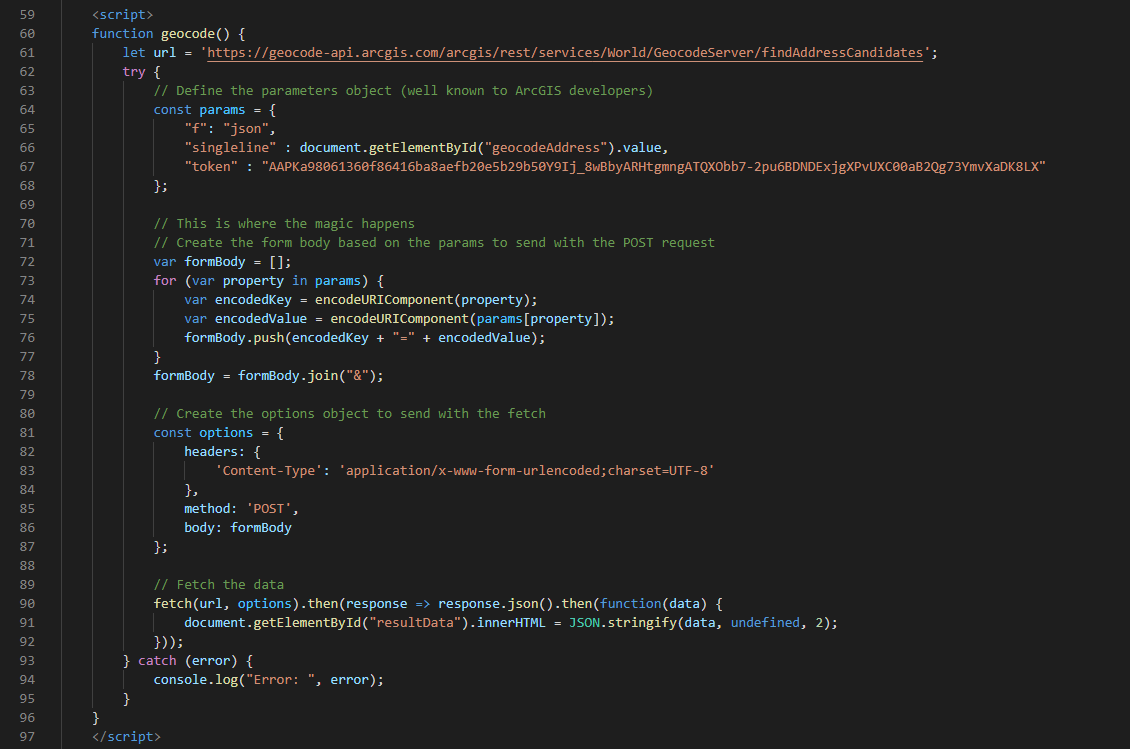
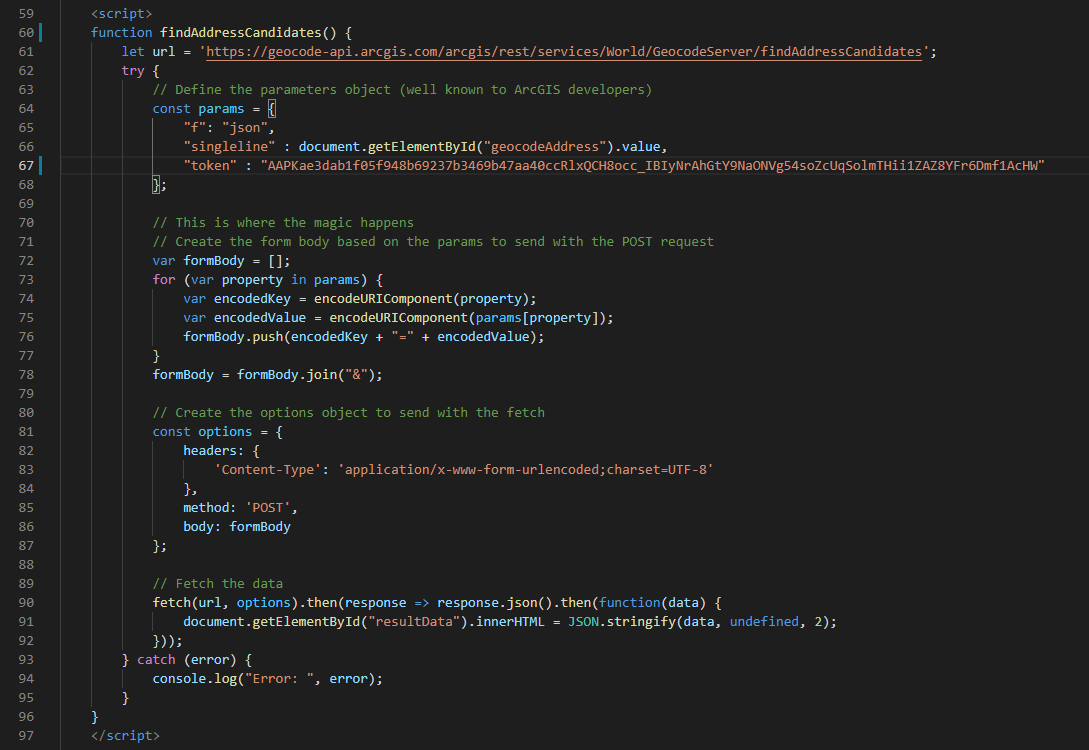
Added JS Fetch REST

diff --git a/JsFetchREST/index.html b/JsFetchREST/index.html
@@ -57,14 +57,14 @@
     <script nomodule="" src="https://js.arcgis.com/calcite-components/1.0.0-beta.63/calcite.js"></script>
 
     <script>
-    function geocode() {
+    function findAddressCandidates() {
         let url = 'https://geocode-api.arcgis.com/arcgis/rest/services/World/GeocodeServer/findAddressCandidates';
         try {
             // Define the parameters object (well known to ArcGIS developers)
             const params = {
                 "f": "json", 
                 "singleline" : document.getElementById("geocodeAddress").value, 
-                "token" : "AAPKa98061360f86416ba8aefb20e5b29b50Y9Ij_8wBbyARHtgmngATQXObb7-2pu6BDNDExjgXPvUXC00aB2Qg73YmvXaDK8LX"
+                "token" : "AAPKae3dab1f05f948b69237b3469b47aa40ccRlxQCH8occ_IBIyNrAhGtY9NaONVg54soZcUqSolmTHii1ZAZ8YFr6Dmf1AcHW"
             };
 
             // This is where the magic happens
@@ -107,7 +107,7 @@
       <div id="formDiv">
           Type (part of) an address: 
           <calcite-input id="geocodeAddress" value="Koggelaan 33, Zwolle"></calcite-input>
-          <calcite-button onclick="geocode()">Find Address Candidates</calcite-button>&nbsp;[<a href="https://developers.arcgis.com/rest/geocode/api-reference/geocoding-find-address-candidates.htm" target="_blank">Documentation</a>]
+          <calcite-button onclick="findAddressCandidates()">Find Address Candidates</calcite-button>&nbsp;[<a href="https://developers.arcgis.com/rest/geocode/api-reference/geocoding-find-address-candidates.htm" target="_blank">Documentation</a>]
         </div>
         <pre id="resultData"></pre>
     </div>
